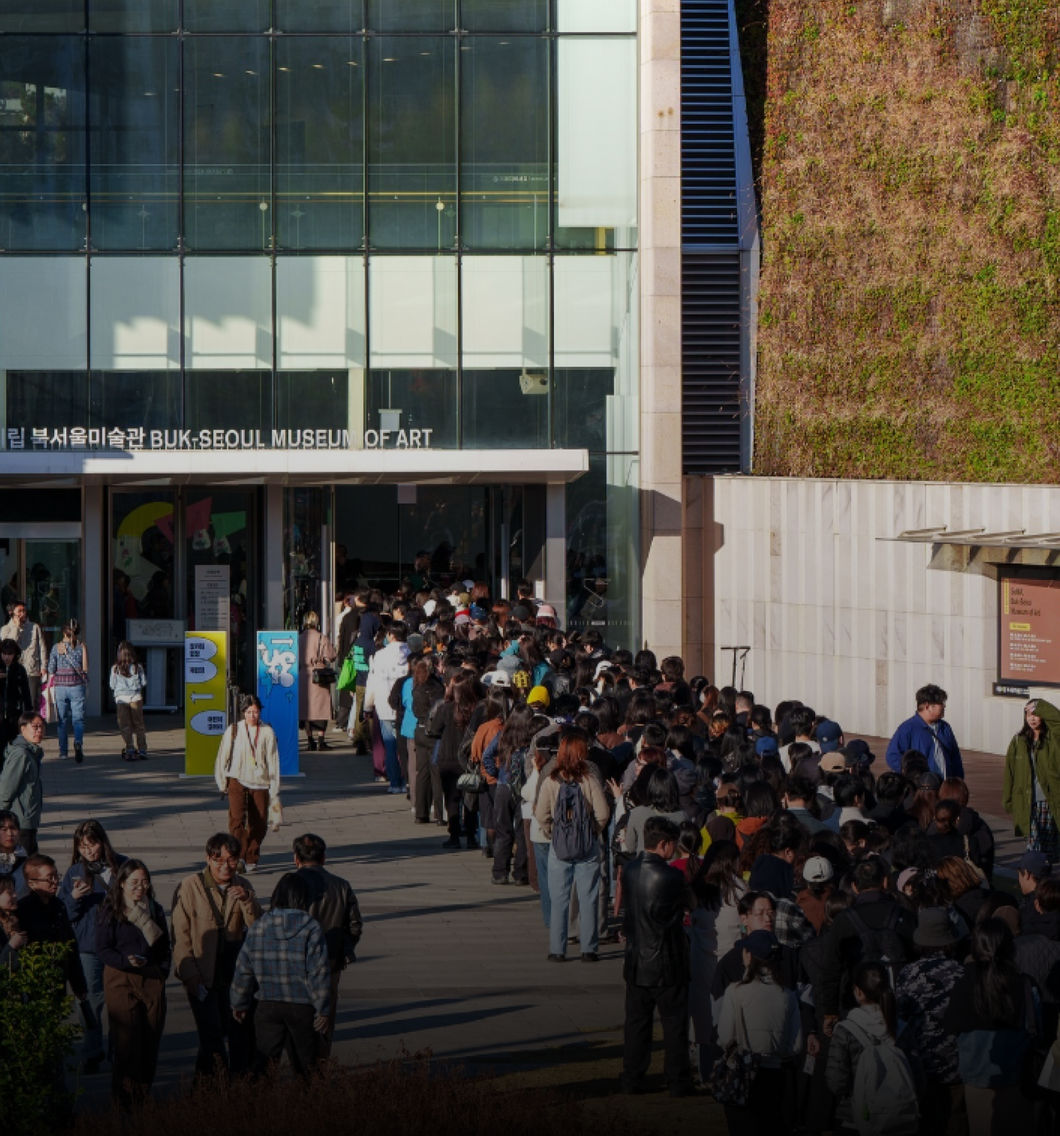
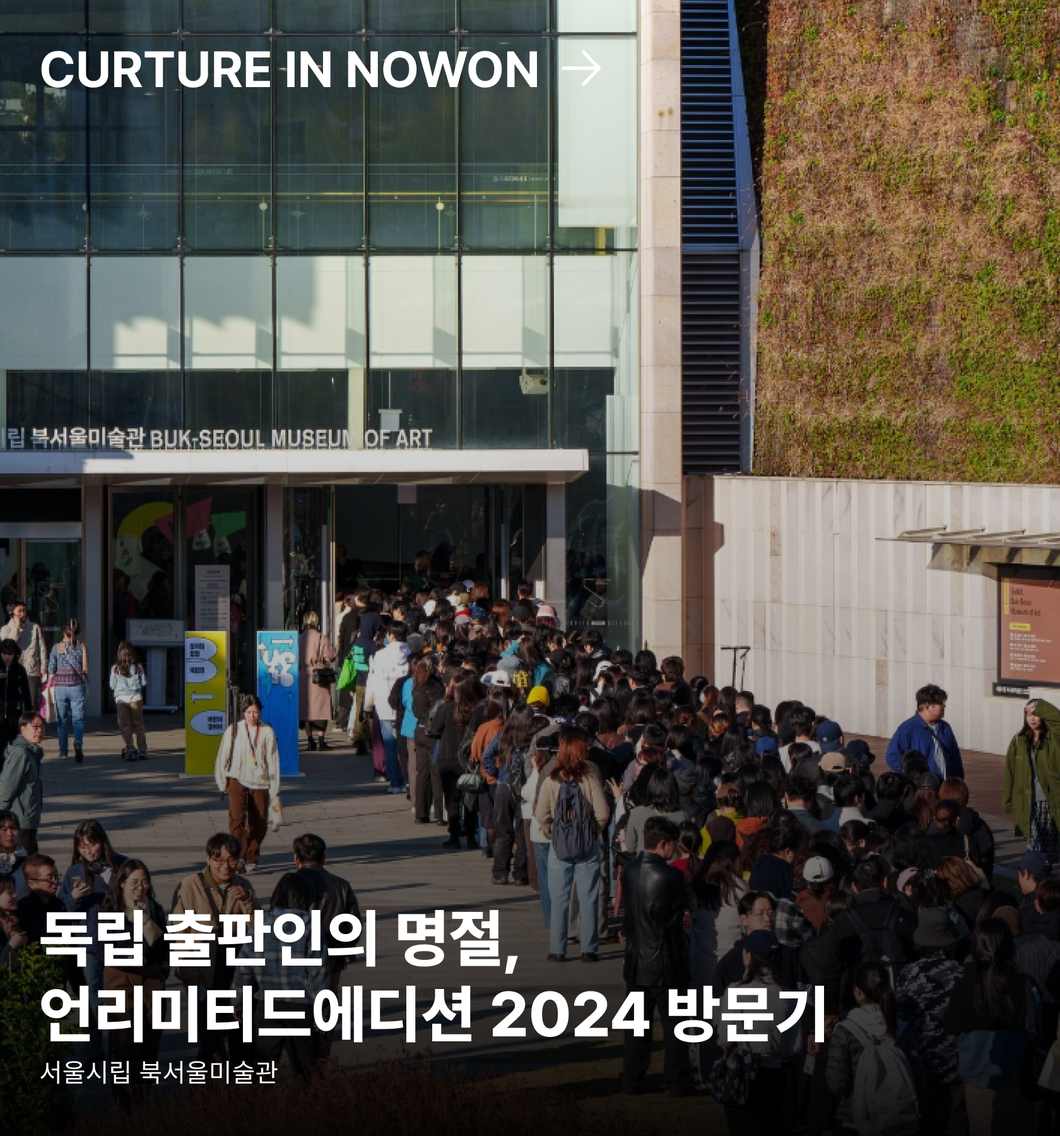
main

Changed region(s): [[0.031, 0.7778, 0.8048, 0.9644], [0.031, 0.0311, 0.5571, 0.0933]]

diff --git a/src/Main.js b/src/Main.js
@@ -12,7 +12,8 @@ const Main = () => {
     return () => clearInterval(interval);
   }, []);
 
-	return (<div className="w-screen h-[3774px] bg-[#fff] overflow-hidden">
+	return (
+  <div className="w-screen h-[3774px] bg-[#fff] overflow-hidden">
   <div className="absolute top-[157px] w-screen flex flex-col items-center justify-start gap-[36px]">
     <div className="relative w-screen h-[769px] shrink-0 flex">
       <div className="absolute left-1/2 top-0 items-center w-[460px] h-[682px] flex">
@@ -49,18 +50,10 @@ const Main = () => {
     </div>
 
     <div className="w-screen flex flex-row items-start justify-between">
-        <div className="relative w-[60%] h-auto shrink-0 flex flex-col items-end justify-between p-4">
+        <div className="relative w-[50%] h-auto shrink-0 flex flex-col items-end justify-between">
           <div className="relative w-full h-auto flex">
             <img className="w-full h-auto" src={process.env.PUBLIC_URL + "/main_post1.png"} alt="main post" />
             <div className="w-full h-auto bg-gradient-to-b from-transparent via-black/60 to-black"></div>
-          </div>
-          <div className="flex flex-row items-center justify-start gap-4">
-            <div className="text-2xl font-['Pretendard'] font-bold text-white whitespace-nowrap">F&B PLACE</div>
-            <img width="31" height="28" src="Vector64_29.png" alt="icon" />
-          </div>
-          <div className="w-full flex flex-col items-start justify-start gap-2">
-            <div className="w-full text-4xl font-['Pretendard'] font-extrabold text-white">이탈리아 현지 생면의 맛을 찾아서</div>
-            <div className="w-full text-xl font-['Inter'] text-white">공릉 페페그라노</div>
           </div>
         </div>
         <div className="relative w-[40%] h-auto shrink-0 flex">
@@ -84,59 +77,60 @@ const Main = () => {
         </div>
       </div>
 
-
-    <div className="self-stretch flex flex-row items-center justify-start gap-[1px]">
-      <div className="w-[600px] h-[980px] shrink-0 flex flex-col items-start justify-between pt-[31px] pr-[20px] pb-0 pl-[31px] bg-[#fff]">
-        <div className="w-[379px] flex flex-col items-start justify-start gap-[10px]">
-          <div className="self-stretch flex flex-row items-center justify-start gap-[17px]">
-            <div className="text-[40px] font-['Pretendard'] font-bold text-[#000] whitespace-nowrap">이 달의 MAGAZINE</div>
-            <img width="31" height="28" src="Vector64_40.png"></img>
-          </div>
-          <div className="self-stretch h-[32px] text-[20px] font-['Inter'] text-[#000]">2024년 11월</div>
-        </div>
-        <div className="flex flex-row items-start justify-start gap-[11px]">
-          <img width="300" height="400" src="Mask group37_57.png"></img>
-          <div className="w-[177px] shrink-0 flex flex-col items-start justify-start gap-[3px]">
-            <div className="text-[16px] font-['Pretendard'] font-bold text-[#000] whitespace-nowrap">F&B PLACE</div>
-            <div className="text-[28px] font-['Pretendard'] font-bold text-[#000] whitespace-nowrap">가을엔 뇨끼를</div>
-            <div className="text-[15px] font-['Inter'] text-[#000] whitespace-nowrap">공릉 메모아</div>
-          </div>
-        </div>
-        <div className="w-[539px] flex flex-row items-start justify-end gap-[11px]">
-          <div className="flex flex-col items-end justify-start gap-[3px]">
-            <div className="text-[16px] font-['Pretendard'] font-bold text-[#000] whitespace-nowrap">PEOPLE</div>
-            <div className="text-[28px] font-['Pretendard'] font-bold text-[#000] text-right whitespace-nowrap">..느좋하이레제목<br/>대학가 1등 돈가스</div>
-            <div className="text-[15px] font-['Inter'] text-[#000] whitespace-nowrap">월계 하이레</div>
-          </div>
-          <img width="300" height="400" src="Mask group64_68.png"></img>
-        </div>
+      <div className="w-screen flex flex-row items-start justify-between">
+  <div className="relative w-[50vw] h-auto shrink-0 flex pl-[30px] pr-[2vw] py-[0px] bg-white flex-col justify-between items-start ">
+    <div className="h-[90px] flex flex-col justify-start items-start gap-0.5">
+      <div className="self-stretch flex justify-start items-center gap-[10px]">
+        <div className="text-black text-[45px] font-bold font-['Pretendard']">이 달의 MAGAZINE</div>
       </div>
-      <div className="relative w-[840px] h-[980px] shrink-0 flex flex-col items-start justify-between py-[30px] px-[31px]">
-        <div className="absolute left-0 top-0 w-[840px] h-[980px] shrink-0 flex">
-          <img className="absolute left-0 top-0" width="840" height="980" src="image 964_53.png"></img>
-          <div className="absolute left-0 top-0 w-[840px] h-[980px] bg-[linear-gradient(180deg,#00000000_0%,#00000044_60%,#000_100%)]"></div>
-        </div>
-        <div className="flex flex-row items-center justify-start gap-[17px]">
-          <div className="text-[40px] font-['Pretendard'] font-bold text-[#fff] whitespace-nowrap">CURTURE IN NOWON</div>
-          <img width="31" height="28" src="Vector64_48.png"></img>
-        </div>
-        <div className="w-[655px] flex flex-col items-start justify-start gap-[5px]">
-          <div className="self-stretch h-[120px] text-[50px] font-['Pretendard'] font-extrabold text-[#fff] flex flex-col justify-end">독립 출판인의 명절,<br/>언리미티드에디션 2024 방문기</div>
-          <div className="self-stretch h-[32px] text-[20px] font-['Inter'] text-[#fff]">서울시립 북서울미술관</div>
-        </div>
+      <div className="relative self-stretch h-8 text-black text-xl font-normal font-['Inter']"></div>
+    </div>
+
+    <div className="relative self-stretch flex flex-wrap justify-start items-start gap-5">
+      <div className="w-[18vw] h-[430px] relative">
+        <div className="w-full h-full left-0 top-0 absolute "></div>
+        <img className="w-full h-auto absolute top-0 left-0 object-cover" src={process.env.PUBLIC_URL + "/main_post3.png"} alt="post 3" />
+      </div>
+      <div className="w-[176.83px] flex flex-col justify-start items-start gap-[3px]">
+        <div className="text-black text-base font-bold font-['Pretendard']">PEOPLE & PLACE</div>
+        <div className="text-black text-[28px] font-bold font-['Pretendard']">하이레제목</div>
+        <div className="text-black text-[15px] font-normal font-['Inter']">공릉 메모아</div>
       </div>
     </div>
+
+    <div className="relative w-full flex justify-end items-start gap-5">
+      <div className="relative flex flex-col justify-start items-end gap-[3px]">
+        <div className="text-black text-base font-bold font-['Pretendard']">F&B PLACE</div>
+        <div className="text-right text-black text-[28px] font-bold font-['Pretendard']">가을엔 뇨끼를</div>
+        <div className="text-black text-[15px] font-normal font-['Inter']">공릉 메모아</div>
+      </div>
+      <div className="w-[18vw] h-[346.67px] relative">
+        <img className="w-full h-auto absolute top-0 left-0 object-cover" src={process.env.PUBLIC_URL + "/main_post4.png"} alt="post 4" />
+      </div>
+    </div>
+  </div>
+
+  <div className="relative w-[50%] h-auto shrink-0 flex flex-col items-end justify-between">
+    <div className="relative w-full h-auto flex">
+      <img className="w-full h-auto object-cover" src={process.env.PUBLIC_URL + "/main_post2.png"} alt="main post" />
+      <div className="absolute top-0 left-0 w-full h-full"></div>
+    </div>
+  </div>
+</div>
+
+
+
     <div className="w-[1379px] flex flex-col items-start justify-start gap-[27px]">
       <div className="w-[379px] flex flex-col items-start justify-start gap-[10px]">
         <div className="self-stretch flex flex-row items-center justify-start gap-[17px]">
           <div className="text-[40px] font-['Pretendard'] font-bold text-[#000] whitespace-nowrap">EDITOR’S TASTE</div>
-          <img width="31" height="28" src="Vector68_143.png"></img>
+          <img width="31" height="28" src={process.env.PUBLIC_URL + "/right.png"}></img>
         </div>
         <div className="self-stretch h-[32px] text-[20px] font-['Inter'] text-[#000]">에디터가 제안하는 공간들</div>
       </div>
       <div className="self-stretch flex flex-row items-center justify-start gap-[20px]">
         <div className="w-[446px] shrink-0 flex flex-col items-start justify-start gap-[11px]">
-          <img width="446" height="446" src="Mask group68_113.png"></img>
+          <img width="446" height="446" src={process.env.PUBLIC_URL + "/main_post5.png"}></img>
           <div className="flex flex-col items-start justify-start gap-[3px]">
             <div className="text-[16px] font-['Pretendard'] font-bold text-[#000] whitespace-nowrap">F&B PLACE</div>
             <div className="text-[28px] font-['Pretendard'] font-bold text-[#000] whitespace-nowrap">RM은 어떤 카페를 갈까</div>
@@ -144,7 +138,7 @@ const Main = () => {
           </div>
         </div>
         <div className="w-[446px] shrink-0 flex flex-col items-start justify-start gap-[11px]">
-          <img width="446" height="446" src="Mask group68_121.png"></img>
+          <img width="446" height="446" src={process.env.PUBLIC_URL + "/main_post6.png"}></img>
           <div className="flex flex-col items-start justify-start gap-[3px]">
             <div className="text-[16px] font-['Pretendard'] font-bold text-[#000] whitespace-nowrap">F&B PLACE</div>
             <div className="text-[28px] font-['Pretendard'] font-bold text-[#000] whitespace-nowrap">RM은 어떤 카페를 갈까</div>
@@ -152,7 +146,7 @@ const Main = () => {
           </div>
         </div>
         <div className="w-[446px] shrink-0 flex flex-col items-start justify-start gap-[11px]">
-          <img width="446" height="446" src="Mask group68_129.png"></img>
+          <img width="446" height="446" src={process.env.PUBLIC_URL + "/main_post7.png"}></img>
           <div className="flex flex-col items-start justify-start gap-[3px]">
             <div className="text-[16px] font-['Pretendard'] font-bold text-[#000] whitespace-nowrap">F&B PLACE</div>
             <div className="text-[28px] font-['Pretendard'] font-bold text-[#000] whitespace-nowrap">RM은 어떤 카페를 갈까</div>

diff --git a/src/Post1.js b/src/Post1.js
@@ -1,0 +1,25 @@
+import { useState, EventHandler, ReactNode } from 'react';
+import './output.css';
+
+const Post1 = () => {
+	return (
+  <div className="relative w-[1440px] h-[2233px] bg-[#fff] overflow-hidden">
+  <div className="absolute left-[151px] top-0 w-[1139px] flex flex-col items-center justify-start gap-[46px]">
+    <img width="1139" height="641" src="마스트리스보트 페이지 1119_62.png"></img>
+    <div className="w-[716px] flex flex-col items-start justify-start gap-[43px]">
+      <div className="self-stretch text-[15px] font-['Pretendard'] text-[#000]">2024-10-04</div>
+      <div className="self-stretch text-[40px] font-['Pretendard'] font-bold text-[#000]">암온어 마스트리스 BOAT</div>
+      <div className="self-stretch text-[20px] font-['Pretendard'] font-light text-[#000]">눈에 보이는 사방이 귀여운 고양이</div>
+      <img width="716" height="435" src="image16_30.png"></img>
+      <div className="w-[699px] text-[20px] font-['Pretendard'] font-medium text-[#000]">‘돛대를 잃은 배’라는 뜻을 가진 이 카페는 한 건물의 2층에 숨겨져 있다.<br/>원목가구들과 초록 식물들로 가득 채워져있어, 누군가의 작은 공간을 엿보는 듯한 아늑한 느낌을 준다.</div>
+      <div className="text-[20px] font-['Pretendard'] font-medium text-[#000] whitespace-nowrap">특히 이 곳의 특별한 점은, 마스코트 태릉이가 반겨준다는 것!<br/>모른척 할 일을 하다보면 슬쩍 팬서비스를 해주고 가니 먼저 다가오기를 기다려보자.<br/> </div>
+      <div className="text-[20px] font-['Pretendard'] font-medium text-[#000] whitespace-nowrap">특히 이 곳의 특별한 점은, 마스코트 태릉이가 반겨준다는 것!<br/>모른척 할 일을 하다보면 슬쩍 팬서비스를 해주고 가니 먼저 다가오기를 기다려보자.<br/> </div>
+      <div className="text-[20px] font-['Pretendard'] font-medium text-[#000] whitespace-nowrap">마스트리스보트의 시그니처 커피는 보트커피와 액설런트 라떼이다.<br/>그리고 이 고소한 커피들에 꾸덕한 티라미수를 함께 곁들여 먹는 것을 추천한다.<br/><br/>커피와 티라미수의 달콤 쌉싸름한 조합이 이 카페의 분위기와도 잘 어우러진다.<br/>티라미수는 얼그레이, 쑥, 로투스 등 다양한 맛이 있으니 취향에 맞게 골라먹는 재미도!</div>
+      <div className="w-[698px] text-[20px] font-['Pretendard'] font-medium text-[#000]">조용하게 시간을 보내기에도, 혼자 작업을 하기에도 적합한 따뜻한 공간이지만<br/>곳곳의 고양이 폴라로이드와 손그림으로 그려진 메뉴들처럼 애정이 담긴 것들을 찬찬히 둘러보는 것도 권한다.<br/>일기장을 챙겨간다면 떠오르는 영감들을 차곡차곡 쌓을 수 있을 것이다.</div>
+      <div className="w-[698px] text-[20px] font-['Pretendard'] font-medium text-[#000]">테이블 이용 시간은 3시간으로 제한되고 있고, 터줏대감 ‘태릉이’가 계시는 만큼 강아지님들은 방문이 어려운 점 꼭 참고해<br/>카페를 넘어선 하나의 고유한 공간, 마스트리스 보트에서 다들 각자만의 시간을 즐기고 오길.</div>
+    </div>
+  </div>
+</div>)
+}
+
+export default Post1

diff --git a/public/index.html b/public/index.html
@@ -24,7 +24,7 @@
       work correctly both with client-side routing and a non-root public URL.
       Learn how to configure a non-root public URL by running `npm run build`.
     -->
-    <title>React App</title>
+    <title>From Now On 프롬나우온 매거진</title>
   </head>
   <body>
     <noscript>You need to enable JavaScript to run this app.</noscript>

diff --git a/src/Topbar.js b/src/Topbar.js
@@ -18,7 +18,7 @@ const Topbar = () => {
           />
           <div className="flex flex-row items-center justify-start gap-4">
             <div className="text-lg font-['Pretendard'] font-bold text-black text-center">
-              NOWON
+              FROM NOW ON
             </div>
             <img 
               className="w-[5px] h-[5px]" 
